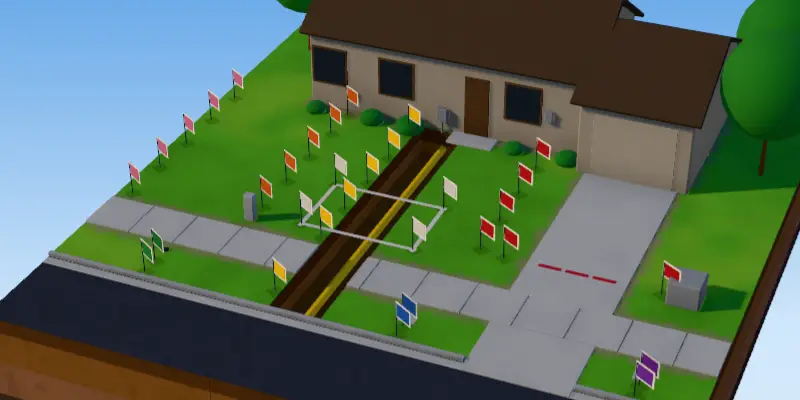
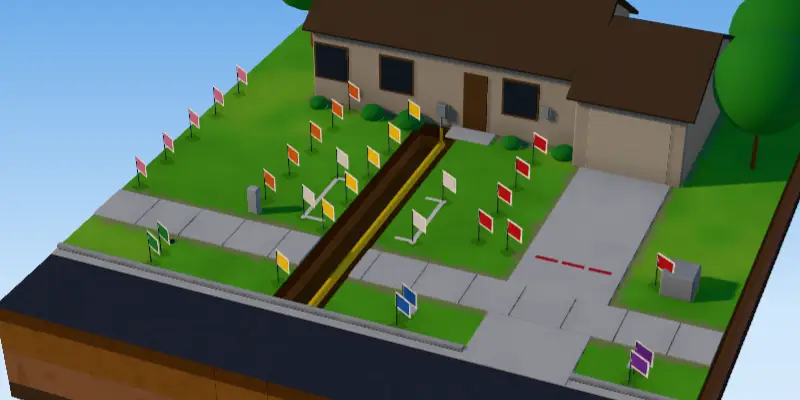
Capture Read the Marks' pictures again, with the outline broken over the trench

diff --git a/src/site/placeholders.ts b/src/site/placeholders.ts
@@ -19,9 +19,9 @@ export const STILL_PLACEHOLDERS: Readonly<Record<string, string>> = {
   'stills/hero-light.webp':
[1 lines of base64/hex data omitted]
   'stills/read-the-marks-dark.webp':
[2 lines of base64/hex data omitted]
   'stills/read-the-marks-light.webp':
[2 lines of base64/hex data omitted]
 };
 
 export const POSTER_PLACEHOLDERS: Readonly<Record<string, string>> = {
@@ -42,13 +42,13 @@ export const POSTER_PLACEHOLDERS: Readonly<Record<string, string>> = {
   'posters/gas-petroleum-light-wide.webp':
[1 lines of base64/hex data omitted]
   'posters/read-the-marks-dark-tall.webp':
[2 lines of base64/hex data omitted]
   'posters/read-the-marks-dark-wide.webp':
[2 lines of base64/hex data omitted]
   'posters/read-the-marks-light-tall.webp':
[2 lines of base64/hex data omitted]
   'posters/read-the-marks-light-wide.webp':
[2 lines of base64/hex data omitted]
 };
 
 /** The version of each picture its copy was made from (`pictureHash`, scripts/placeholders.ts). */
@@ -61,16 +61,16 @@ export const PLACEHOLDER_SOURCES: Readonly<Record<string, string>> = {
   'posters/gas-petroleum-dark-wide.webp': '2b9e5a60b40cafb0',
   'posters/gas-petroleum-light-tall.webp': 'a71a883fb9cc22f7',
   'posters/gas-petroleum-light-wide.webp': '7ec1e3cba60bf733',
-  'posters/read-the-marks-dark-tall.webp': '2ae6f879699c4bc6',
-  'posters/read-the-marks-dark-wide.webp': 'dc98a88fd76417e4',
-  'posters/read-the-marks-light-tall.webp': '54aae7c6e7976b5b',
-  'posters/read-the-marks-light-wide.webp': '2fa2f3e8bdf85b22',
+  'posters/read-the-marks-dark-tall.webp': '3a260cf6652cffb4',
+  'posters/read-the-marks-dark-wide.webp': '2b8ce0b3abda3b9a',
+  'posters/read-the-marks-light-tall.webp': '1913fb6586b8d7c4',
+  'posters/read-the-marks-light-wide.webp': '36d707ff63c2c5d8',
   'stills/frequency-lab-dark.webp': '99e91968b9e04e75',
   'stills/frequency-lab-light.webp': 'd5858a55a5b18371',
   'stills/gas-petroleum-dark.webp': '4a67fa3773b8913d',
   'stills/gas-petroleum-light.webp': '4b06472f21fcbc72',
   'stills/hero-dark.webp': '1d19df42c3cad9ca',
   'stills/hero-light.webp': 'acedb3290773ac32',
-  'stills/read-the-marks-dark.webp': '595e65c1dcb6a294',
-  'stills/read-the-marks-light.webp': '6e52bef54a575f5a',
+  'stills/read-the-marks-dark.webp': '651479b81308d89f',
+  'stills/read-the-marks-light.webp': 'a166b54fa1ef2909',
 };
